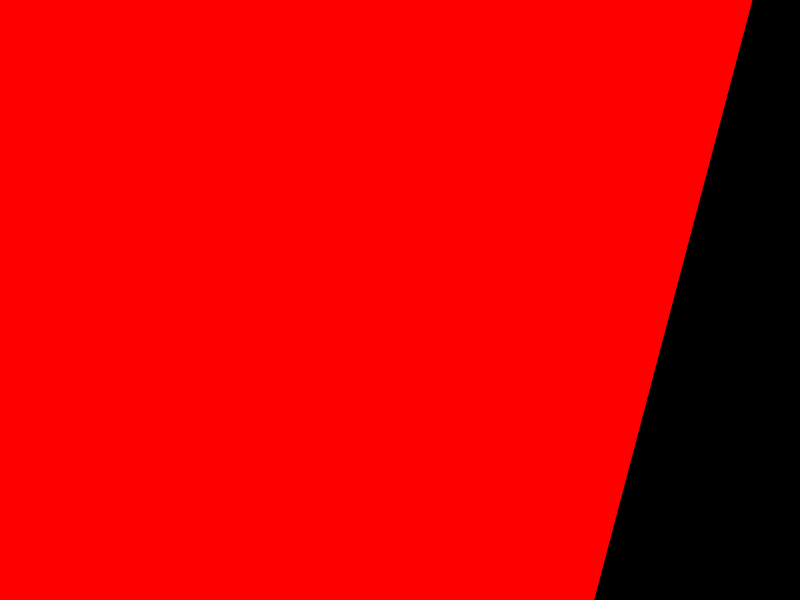
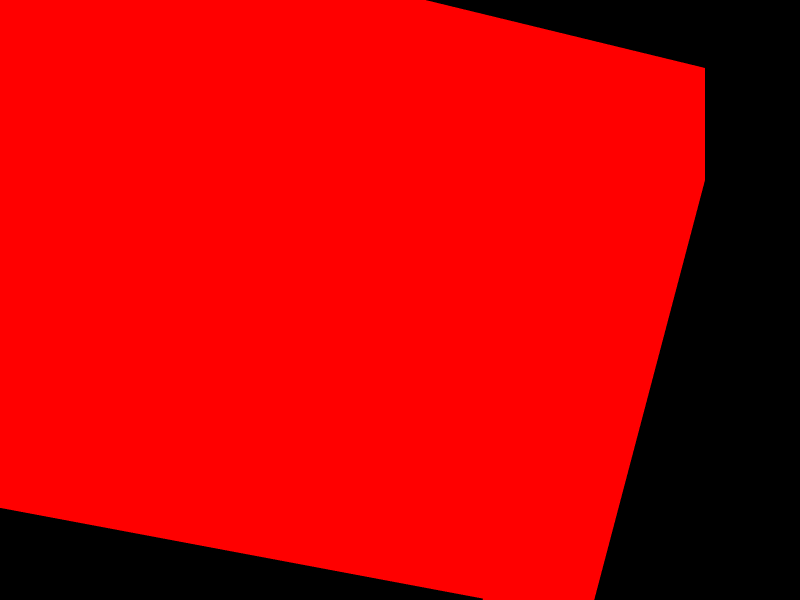
Adding more style

Changed region(s): [[0.0, 0.84, 0.625, 1.0], [0.5312, 0.0, 0.9375, 0.3]]

diff --git a/stage.py b/stage.py
@@ -127,15 +127,16 @@ class Stage:
                                  angle = angles[n])
 
         self.return_button.render(screen)
-        self.back_text.render_new(self.return_button.text)
         w1,h1 = self.back_text.blittable.get_size()
         w2,h2 = self.button_sizes[0]
         x,y = 0,0
         if self.return_button.isPressed:
             x,y = PRESS_X, PRESS_Y
+        self.back_text.render_new(self.return_button.text, color=(255,0,0))
         self.back_text.render(screen, (
             self.return_button.x+w2//2-w1//4+x,
-            self.return_button.y+h2//2-h1*2//3+y))
+            self.return_button.y+h2//2-h1*2//3+y),
+                              angle = -12)
         
     def update(self, e, mouseClick, tick):
         ## Generic update method called by Main.main()
